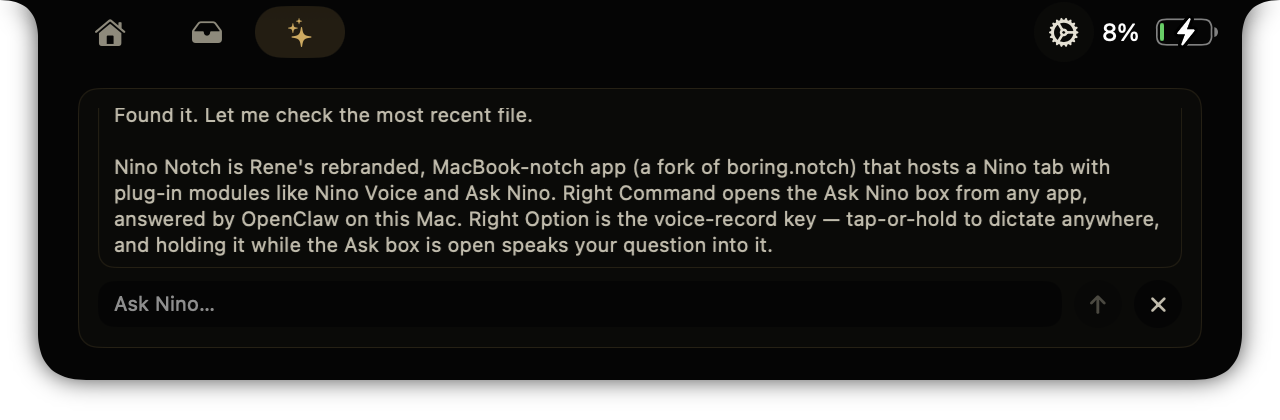
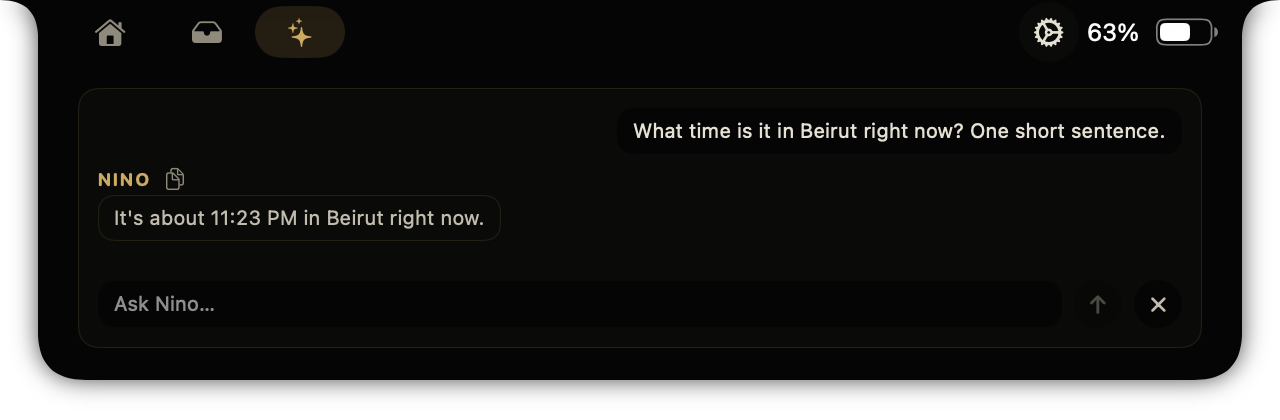
one-press Right ⌘ for Ask Nino, Nino Notch signing identity, Screen Control fixes
- Right ⌘ opens Ask Nino and starts listening at once; Right ⌘ again stops and
  sends (Nino Notch catches the second press; the engine ignores Right ⌘ while
  recording). Spoken words route on their own: commands to Screen Control,
  questions to Ask Nino. 2-minute safety cap. Esc cancels an open recording.
  No Nino Voice rebuild: uses the existing askOpen / toggleRecord bridge calls.
- build.sh signs with the new 'Nino Notch Signing' identity; its keychain
  password is read from the login keychain at build time, never stored here.
- Screen Control: Spotify 1.3 loads Liked Songs paused, so press play after;
  expose Chromium's accessibility tree before looking for Play; run claude -p
  with no tools in an empty folder (it was raising file-permission prompts
  for Nino Notch); record the last result; --nino-screen-command dev flag.
- Screen Control asks for Accessibility the first time a command runs.
- Docs: checklist section D, architecture note on Right ⌘, new Ask screenshot.

diff --git a/Nino/NinoScreenControl.swift b/Nino/NinoScreenControl.swift
@@ -36,6 +36,7 @@ final class NinoScreenControl: ObservableObject {
 
     @Published private(set) var entries: [Entry] = []
     @Published private(set) var busy = false
+    private static var askedForAccessibility = false
 
     var hasAccessibility: Bool { AXIsProcessTrusted() }
 
@@ -59,6 +60,13 @@ final class NinoScreenControl: ObservableObject {
         let decision = await Self.decide(text)
         guard let decision, !decision.steps.isEmpty else { return false }
 
+        // Clicking/pressing in other apps needs Accessibility; ask the first time a
+        // real command runs so the prompt appears when it matters.
+        if !AXIsProcessTrusted() && !Self.askedForAccessibility {
+            Self.askedForAccessibility = true
+            requestAccessibility()
+        }
+
         entry.decidedBy = decision.by
         entry.plan = decision.steps
         entries.insert(entry, at: 0)
@@ -77,7 +85,21 @@ final class NinoScreenControl: ObservableObject {
             entries[i].ok = allOK
         }
         NSLog("NINO screen: %@ -> %@ [%@] %@", text, decision.steps.map(\.action).joined(separator: ","), decision.by, notes.joined(separator: " | "))
+        Self.recordLast(text: text, decision: decision, notes: notes, ok: allOK)
         return true
+    }
+
+    /// Last result, for diagnosis: ~/Library/Application Support/com.meetnino.notch/screen-control-last.json
+    private static func recordLast(text: String, decision: Decision, notes: [String], ok: Bool) {
+        let dir = FileManager.default.urls(for: .applicationSupportDirectory, in: .userDomainMask)[0]
+            .appendingPathComponent("com.meetnino.notch", isDirectory: true)
+        let record: [String: Any] = [
+            "at": ISO8601DateFormatter().string(from: Date()), "text": text, "decidedBy": decision.by,
+            "steps": decision.steps.map(\.action), "results": notes, "ok": ok,
+        ]
+        if let data = try? JSONSerialization.data(withJSONObject: record, options: [.prettyPrinted]) {
+            try? data.write(to: dir.appendingPathComponent("screen-control-last.json"))
+        }
     }
 
     // MARK: Decide
@@ -217,10 +239,11 @@ enum SpotifyControl {
         if let user = username { uris.insert("spotify:user:\(user):collection", at: 0) }
         for uri in uris {
             // The URI goes in as an argument, never spliced into script source.
-            if AppleScript.run("on run argv\ntell application \"Spotify\" to play track (item 1 of argv)\nend run", args: [uri]) != nil,
-               await isPlaying() {
-                return (true, "Spotify: playing Liked Songs")
-            }
+            guard AppleScript.run("on run argv\ntell application \"Spotify\" to play track (item 1 of argv)\nend run", args: [uri]) != nil else { continue }
+            if await isPlaying() { return (true, "Spotify: playing Liked Songs") }
+            // Spotify 1.3 can load the collection paused: press play once.
+            AppleScript.run("tell application \"Spotify\" to play")
+            if await isPlaying() { return (true, "Spotify: playing Liked Songs") }
         }
 
         // 2. Accessibility: open Liked Songs and press Spotify's own Play button.
@@ -230,7 +253,7 @@ enum SpotifyControl {
             return (false, "needs Accessibility for Nino Notch (prompt shown)")
         }
         NSWorkspace.shared.open(URL(string: "spotify:collection:tracks")!)
-        try? await Task.sleep(for: .seconds(2.5))
+        try? await Task.sleep(for: .seconds(3))
         guard let pid = NSRunningApplication.runningApplications(withBundleIdentifier: bundleID).first?.processIdentifier else {
             return (false, "Spotify not running")
         }
@@ -266,6 +289,11 @@ enum AXPress {
     /// Breadth-first search of an app's windows for a button by title/description; press it.
     static func firstButton(inApp pid: pid_t, named names: [String]) -> Bool {
         let app = AXUIElementCreateApplication(pid)
+        // Spotify is Chromium-based: its accessibility tree stays empty until an
+        // assistive app asks for it with AXManualAccessibility.
+        AXUIElementSetAttributeValue(app, "AXManualAccessibility" as CFString, kCFBooleanTrue)
+        AXUIElementSetAttributeValue(app, "AXEnhancedUserInterface" as CFString, kCFBooleanTrue)
+        usleep(800_000)
         var queue: [AXUIElement] = [app]
         var visited = 0
         while !queue.isEmpty, visited < 4000 {
@@ -432,7 +460,13 @@ enum ClaudeCommandParser {
                 let process = Process()
                 process.executableURL = URL(fileURLWithPath: claude)
                 // haiku: a fixed-schema parse, and speed matters; the words go in on stdin.
-                process.arguments = ["-p", "--model", "haiku", "--output-format", "text"]
+                // No tools and an empty working folder: a parse must never read files,
+                // and anything it touched would raise permission prompts for Nino Notch.
+                process.arguments = ["-p", "--model", "haiku", "--output-format", "text",
+                                     "--disallowedTools", "Bash,Read,Edit,Write,Glob,Grep,WebFetch,WebSearch,Task,NotebookEdit"]
+                let scratch = FileManager.default.temporaryDirectory.appendingPathComponent("nino-screen-claude", isDirectory: true)
+                try? FileManager.default.createDirectory(at: scratch, withIntermediateDirectories: true)
+                process.currentDirectoryURL = scratch
                 var env = ProcessInfo.processInfo.environment
                 env["PATH"] = "/usr/local/bin:/opt/homebrew/bin:/usr/bin:/bin:" + (env["PATH"] ?? "")
                 process.environment = env

diff --git a/Nino/NinoVoiceLink.swift b/Nino/NinoVoiceLink.swift
@@ -233,11 +233,15 @@ final class NinoVoiceLink: ObservableObject {
         switch envelope.type {
         case "meter":
             level = envelope.level ?? 0
+            if listen.active { listen.tick() }  // meter frames double as a clock
         case "state":
             guard let new = try? JSONDecoder().decode(NinoVoiceState.self, from: line) else { return }
             let wasAsking = state?.ask.visible == true
             let oldDraft = state?.ask.draft ?? ""
             state = new
+            if listen.active {
+                if new.recording == "recording" { listen.tick() } else { listen.stop() }
+            }
             if new.ask.visible, !new.ask.draft.isEmpty, new.ask.draft != oldDraft {
                 routeSpokenDraft(new.ask.draft)
             }
@@ -256,18 +260,71 @@ final class NinoVoiceLink: ObservableObject {
 
     // MARK: Screen Control hand-off
 
-    /// Words spoken into the Ask box: a screen command runs straight away
-    /// (hands-free); anything else stays in the box for Return, as before.
+    /// Words spoken into the Ask box go straight through, no Return:
+    /// a computer command runs in Screen Control, anything else goes to Ask Nino.
     private func routeSpokenDraft(_ text: String) {
+        listen.stop()
         Task {
-            if await NinoScreenControl.shared.handle(text) { showScreenResult() }
+            if await NinoScreenControl.shared.handle(text) {
+                showScreenResult()
+            } else {
+                sendTypedAsk(text)
+            }
         }
+    }
+
+    /// A question typed (or spoken) into Ask Nino. Marked so the ask box that this
+    /// opens does not start the microphone.
+    func sendTypedAsk(_ text: String) {
+        if state?.ask.visible != true { suppressAutoListen = true }
+        send("askSend", text: text)
+    }
+
+    /// Close the ask box. If it is still listening, cancel the recording too, so
+    /// the words are not pasted into whatever app is underneath.
+    func closeAsk() {
+        listen.stop()
+        send(state?.isCapturing == true ? "cancel" : "askClose")
     }
 
     /// Close the ask box and leave Screen Control selected, showing what happened.
     func showScreenResult() {
         NinoModuleRegistry.shared.select("nino.screen")
-        send("askClose")
+        closeAsk()
+    }
+
+    // MARK: One-press Right ⌘ (Ask Nino listens right away)
+
+    /// Set when Nino Notch itself opens the ask box to send typed text.
+    private var suppressAutoListen = false
+    private lazy var listen = AskListenSession(
+        onFinished: { [weak self] in self?.stopListening() }
+    )
+    private var rightCommandMonitor: Any?
+
+    /// Right ⌘ opened the ask box: start the microphone, the same engine call as
+    /// holding Right ⌥ into the open box. No Nino Voice change needed.
+    private func startListeningIfHotkey() {
+        defer { suppressAutoListen = false }
+        guard !suppressAutoListen, let s = state, s.recording == "idle", s.ask.messages.isEmpty else { return }
+        send("toggleRecord")
+        listen.start()
+    }
+
+    private func stopListening() {
+        guard listen.active else { return }
+        listen.stop()
+        if state?.recording == "recording" { send("toggleRecord") }
+    }
+
+    /// A second Right ⌘ press while Ask Nino is listening stops it. The engine
+    /// ignores Right ⌘ while it records, so the two never fight over the key.
+    private func watchRightCommand() {
+        guard rightCommandMonitor == nil else { return }
+        rightCommandMonitor = NSEvent.addGlobalMonitorForEvents(matching: .flagsChanged) { event in
+            guard event.keyCode == 54, event.modifierFlags.contains(.command) else { return }  // Right ⌘ down
+            Task { @MainActor in NinoVoiceLink.shared.stopListening() }
+        }
     }
 
     // MARK: Notch focus (Ask Nino owns the keyboard, dictation never does)
@@ -278,12 +335,15 @@ final class NinoVoiceLink: ObservableObject {
         BoringViewCoordinator.shared.currentView = .modules
         Self.holdsNotchOpen = true
         BoringNotchSkyLightWindow.ninoAllowsKeyFocus = true
+        watchRightCommand()
+        startListeningIfHotkey()
         guard let target = Self.notchTarget() else { return }
         target.vm.open()
         target.window?.makeKey()
     }
 
     private func hideAsk() {
+        listen.stop()
         guard Self.holdsNotchOpen else { return }
         Self.holdsNotchOpen = false
         releaseKeyFocus()
@@ -305,5 +365,30 @@ final class NinoVoiceLink: ObservableObject {
             return (vm, app.windows[uuid])
         }
         return (app.vm, app.window)
+    }
+}
+
+/// One Ask Nino listening session. Rene's rule (2026-09-24): Right ⌘ starts it and
+/// Right ⌘ again stops and sends. No auto-stop on quiet; the only extra is a
+/// 2-minute safety cap so a forgotten mic cannot record forever.
+@MainActor
+final class AskListenSession {
+    static let maxLength = 120.0
+
+    private(set) var active = false
+    private var startedAt = Date()
+    private let onFinished: () -> Void
+
+    init(onFinished: @escaping () -> Void) { self.onFinished = onFinished }
+
+    func start(now: Date = Date()) { active = true; startedAt = now }
+
+    func stop() { active = false }
+
+    /// Called on every engine update while recording; only enforces the cap.
+    func tick(now: Date = Date()) {
+        guard active, now.timeIntervalSince(startedAt) >= Self.maxLength else { return }
+        active = false
+        onFinished()
     }
 }

diff --git a/Nino/Modules/AskNinoModule.swift b/Nino/Modules/AskNinoModule.swift
@@ -47,7 +47,7 @@ struct AskNinoPanel: View {
                     .foregroundStyle(NinoTheme.text)
                     .focused($fieldFocused)
                     .onSubmit(send)
-                    .onExitCommand { link.send("askClose") }
+                    .onExitCommand { link.closeAsk() }
                     .padding(.horizontal, 8)
                     .padding(.vertical, 5)
                     .background(NinoTheme.bg)
@@ -66,7 +66,7 @@ struct AskNinoPanel: View {
                 .disabled(!canSend)
 
                 if ask?.visible == true {
-                    Button { link.send("askClose") } label: {
+                    Button { link.closeAsk() } label: {
                         Image(systemName: "xmark")
                             .font(.system(size: 9, weight: .bold))
                             .foregroundStyle(NinoTheme.sub)
@@ -88,8 +88,8 @@ struct AskNinoPanel: View {
             if !NinoVoiceLink.holdsNotchOpen { link.releaseKeyFocus() }
         }
         .onChange(of: ask?.draft ?? "") { _, spoken in
-            // Right-Option into the open box: the engine hands back the words.
-            if !spoken.isEmpty { draft = spoken }
+            // Spoken words arrive here, then go out on their own (Screen Control or Ask Nino).
+            draft = spoken
         }
         .onChange(of: ask?.visible ?? false) { _, visible in
             if visible { DispatchQueue.main.async { fieldFocused = true } }
@@ -105,8 +105,9 @@ struct AskNinoPanel: View {
     }
 
     private var placeholder: String {
-        if link.state?.recording == "recording", let partial = link.state?.partial, !partial.isEmpty {
-            return partial
+        if link.state?.recording == "recording" {
+            let partial = link.state?.partial ?? ""
+            return partial.isEmpty ? "Listening… press Right ⌘ to send" : partial
         }
         return "Ask Nino…"
     }
@@ -124,7 +125,7 @@ struct AskNinoPanel: View {
             if await NinoScreenControl.shared.handle(text) {
                 link.showScreenResult()
             } else {
-                link.send("askSend", text: text)
+                link.sendTypedAsk(text)
             }
         }
     }

diff --git a/Nino/NinoModuleContract.swift b/Nino/NinoModuleContract.swift
@@ -90,6 +90,16 @@ enum NinoModuleContract {
         registry.register(Extra())
         expect(registry.modules.count == expectedIDs.count + 1, "duplicate id is ignored")
 
+        // One-press Right ⌘: only the second press (or the 2-minute cap) stops it.
+        var stops = 0
+        let t0 = Date()
+        let session = AskListenSession(onFinished: { stops += 1 })
+        session.start(now: t0)
+        for i in 0..<100 { session.tick(now: t0.addingTimeInterval(Double(i))) }   // 99 s, quiet or not
+        expect(stops == 0 && session.active, "listen: never stops on its own before 2 minutes")
+        session.tick(now: t0.addingTimeInterval(120))
+        expect(stops == 1 && !session.active, "listen: 2-minute safety cap")
+
         let state = try? JSONDecoder().decode(NinoVoiceState.self, from: Data(sampleEngineState.utf8))
         expect(state != nil, "engine state line decodes")
         expect(state?.isCapturing == true && state?.ask.messages.count == 2, "decoded recording + ask messages")

diff --git a/Nino/NinoModulePreview.swift b/Nino/NinoModulePreview.swift
@@ -28,3 +28,18 @@ enum NinoModulePreview {
         }
     }
 }
+
+/// Dev: `NinoNotch.app --args --nino-screen-command "open Spotify"` runs one Screen
+/// Control command 3 s after launch (typed path; the spoken path is the Ask box).
+enum NinoScreenCommandFlag {
+    @MainActor
+    static func applyIfRequested() {
+        let args = CommandLine.arguments
+        guard let i = args.firstIndex(of: "--nino-screen-command"), i + 1 < args.count else { return }
+        let text = args[i + 1]
+        DispatchQueue.main.asyncAfter(deadline: .now() + 3) {
+            Task { await NinoScreenControl.shared.handle(text) }
+        }
+    }
+}
+

diff --git a/boringNotch/boringNotchApp.swift b/boringNotch/boringNotchApp.swift
@@ -23,6 +23,7 @@ struct DynamicNotchApp: App {
         ModuleCatalog.install(into: .shared)
         NinoModuleSelfTest.runIfRequested()
         NinoModulePreview.applyIfRequested()
+        NinoScreenCommandFlag.applyIfRequested()
 
         // Initialize the settings window controller with the updater controller
         SettingsWindowController.shared.setUpdaterController(updaterController)

diff --git a/Nino/Modules/ScreenControlModule.swift b/Nino/Modules/ScreenControlModule.swift
@@ -94,7 +94,7 @@ struct ScreenControlPanel: View {
         command = ""
         Task {
             if !(await screen.handle(text)) {
-                link.send("askSend", text: text)  // not a screen command: Ask Nino answers it
+                link.sendTypedAsk(text)  // not a screen command: Ask Nino answers it
             }
         }
     }

diff --git a/docs/MERGE-CHECKLIST.md b/docs/MERGE-CHECKLIST.md
@@ -104,14 +104,17 @@ so it opens the very same stores and preferences it always did. Checked against 
 Side effect of testing: about 8 test dictations were added to your history (two are blank, from the
 keychain-blocked polish runs). Delete them in History if you like.
 
-## D. Added 2026-09-24: launch fix, Jev, Screen Control
+## D. Added 2026-09-24: launch fix, signing, Jev, Screen Control, one-press Right ⌘
 
 | # | Capability | Where it lives | Verified |
 |---|---|---|---|
-| L1 | Double-click always shows Nino Notch | `Nino/NinoSingleInstance.swift`, `applicationShouldHandleReopen` | LIVE — root cause: every copy shares `com.meetnino.notch`, so macOS only re-activated the copy already running; with no window or dock icon that looked like nothing. Now a reopen opens the notch for 3 s (screenshot) |
-| L2 | Only one copy ever runs | `NinoSingleInstance.retireOlderCopies()` | LIVE — launching the build next to the installed copy left exactly one running; the engine came back by itself |
-| D1 | Jev (TypeSafe) intent decision | `TypeSafeJev` in `Nino/NinoScreenControl.swift` (POST api.typesafe.ai/v1/systemone, Noul + 2 Choice questions, confidence ≥ 0.75) | NOT VERIFIED live — TypeSafe signups are closed ("Whoops, we're full"), no key. Decision rule checked offline in the contract. Key goes in the keychain (`com.meetnino.notch.typesafe` / `api-key`) or `TYPESAFE_API_KEY` |
-| D2 | Claude CLI fallback (`claude -p --model haiku`) | `ClaudeCommandParser` | LIVE (CLI) — "open Spotify and play my Liked Songs" → `open_app Spotify`, `play_liked_songs` (12 s); a question → not a command |
-| D3 | Actions: open app, Liked Songs, play/pause/next/previous, volume, mute, open link | `NinoScreenControl.run`, `SpotifyControl`, `AXPress` | NOT VERIFIED live — needs a stable-signed install plus your Accessibility and Spotify-automation approval |
-| D4 | Voice path: Right ⌘, hold Right ⌥, say it → runs without Return | `NinoVoiceLink.routeSpokenDraft`, Ask Nino send | CODE — voice-to-text and the ask box are proven; the hand-off runs once D3 can |
-
+| L1 | Double-click always shows Nino Notch | `Nino/NinoSingleInstance.swift`, `applicationShouldHandleReopen` | LIVE — root cause: every copy shares `com.meetnino.notch`, so macOS only re-activated the copy already running, and a windowless app showed nothing. Installed `~/Applications/NinoNotch.app`: a Finder-style open launches it cold; a second open flashes the notch for 3 s |
+| L2 | Only one copy ever runs | `NinoSingleInstance.retireOlderCopies()` | LIVE — launching a second copy retired the first; the voice engine came back by itself |
+| G1 | Own signing identity for Nino Notch | "Nino Notch Signing" in `~/Library/Keychains/nino-notch-signing.keychain-db`; password only in the login keychain (`com.meetnino.notch.signing-keychain` / `nino-notch-signing`); `scripts/build.sh` reads it at build time | LIVE — locked, unlocked with the read-back password, signed; DR pinned to the certificate root; untrusted cert works, no trust prompt. `nino-signing.keychain-db` and Nino Voice's identity untouched |
+| D1 | Jev (TypeSafe) intent decision | `TypeSafeJev` in `Nino/NinoScreenControl.swift` | NOT VERIFIED live — TypeSafe signups closed ("Whoops, we're full"), no key. Decision rule checked offline in the contract |
+| D2 | Claude CLI fallback (`claude -p --model haiku`, no tools, empty working folder) | `ClaudeCommandParser` | LIVE — parsed "open Spotify and play my Liked Songs" into open_app + play_liked_songs |
+| D3 | Actions: open app, Liked Songs, play/pause/next/previous, volume, mute, web links | `NinoScreenControl.run`, `SpotifyControl`, `AXPress` | LIVE — Spotify went from paused to playing **Liked Songs** (947 songs) from the command; Spotify 1.3 needs `play` after loading the collection |
+| D4 | Spoken command → Screen Control, spoken question → Ask Nino, no Return | `NinoVoiceLink.routeSpokenDraft` | LIVE — spoken "Open Spotify and play my like songs" ran Screen Control and Liked Songs played. Speaker-to-mic tests with music playing in the room misheard words ("light songs"), which then correctly went to Ask Nino instead |
+| R1 | One-press Right ⌘: press opens Ask Nino and listens; press again stops and sends; 2-minute cap only | `NinoVoiceLink.startListeningIfHotkey`, `watchRightCommand`, `AskListenSession` | PARTIAL — the engine's Right ⌘ call (`askOpen`) made Nino Notch start listening at once and keep listening through silence; the stop it sends on the second press works. The physical key presses could not be made from this terminal (no permission to post key events) |
+| A1 | Ask Nino answers in the notch | engine → OpenClaw → Ask Nino tab | LIVE — "It's about 11:23 PM in Beirut right now." (12 s) |
+| A2 | OpenClaw Slack permission file on reno-mac | `~/.openclaw/nino-permissions.json` (restored byte-for-byte from reno-mini, 0600) | LIVE — never existed on reno-mac (machine-local, missed in the move); its absence only printed a warning that Ask Nino's error display showed in place of the real error |

diff --git a/docs/ARCHITECTURE.md b/docs/ARCHITECTURE.md
@@ -46,6 +46,12 @@ voice engine and runs headless: no dock icon, no menu bar icon, no notch popup.
 - Ask Nino does take it: while it is open the notch window may become key,
   the notch stays open on hover-out, and Esc or the close button gives the
   keyboard back.
+- Right ⌘ is one-press voice: the engine opens Ask Nino (as before) and Nino
+  Notch immediately sends `toggleRecord` to listen. A second Right ⌘ is caught
+  by Nino Notch (global key monitor, needs its Accessibility grant) and sends
+  `toggleRecord` again to stop; the engine ignores Right ⌘ while recording, so
+  they never fight. Spoken words route on their own: commands to Screen
+  Control, everything else to Ask Nino. No Nino Voice change was needed.
 
 ## Settings and first launch
 
